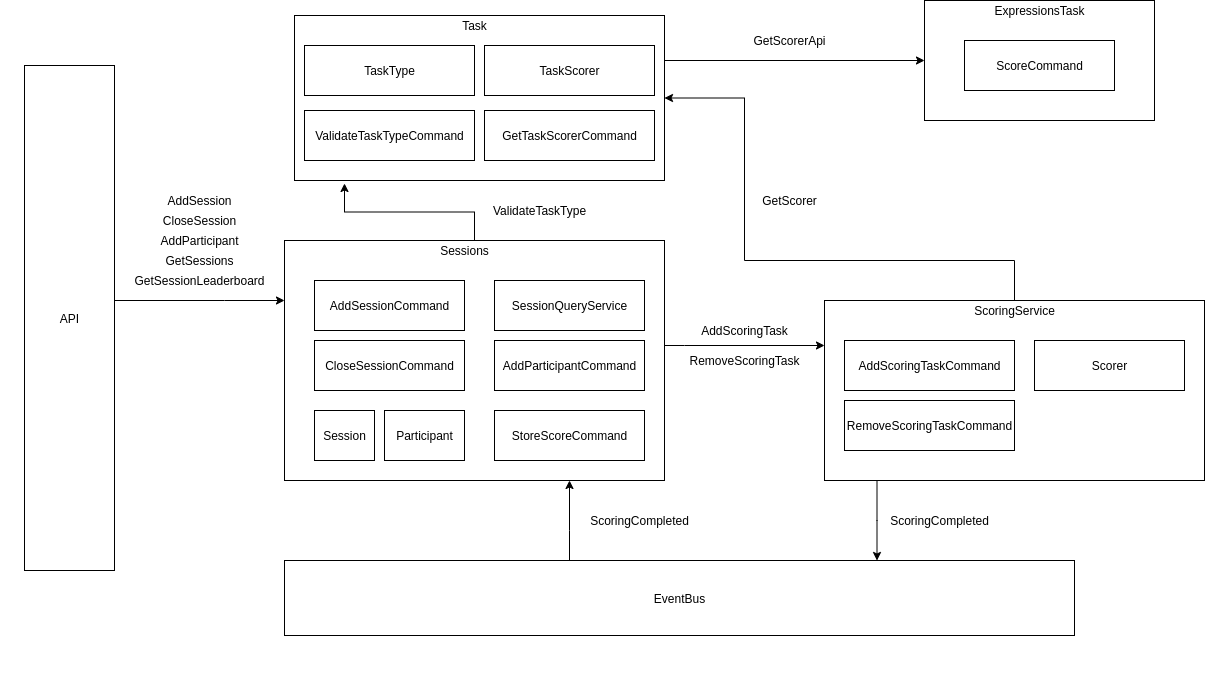
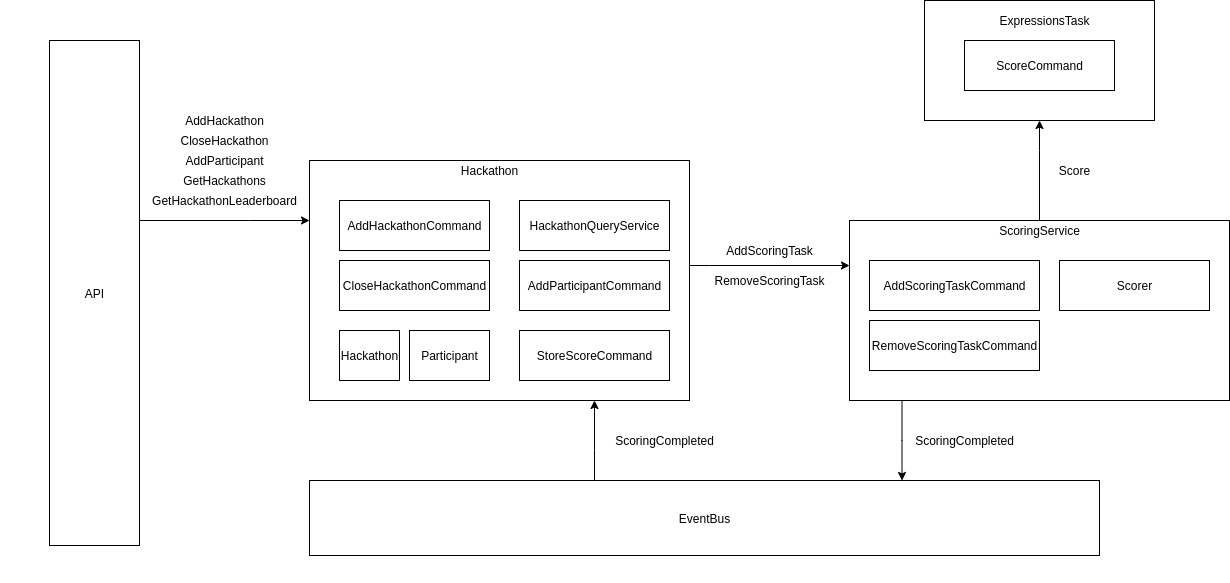
Удалил коды хакатонов

diff --git a/src/hackathonservice/pkg/hackathon/infrastructure/repository/hackathon.go b/src/hackathonservice/pkg/hackathon/infrastructure/repository/hackathon.go
@@ -15,10 +15,10 @@ type hackathonRepository struct {
 
 func (hr *hackathonRepository) Add(h model.Hackathon) error {
 	_, err := hr.tx.Exec(
-		"INSERT INTO `hackathon` (`hackathon_id`, `code`, `name`, `type`, `created_at`) VALUES (UUID_TO_BIN(?), ?, ?, ?, ?)"+
-			"ON DUPLICATE KEY UPDATE `code` = ?, `name` = ?, `type` = ?, `created_at` = ?, `closed_at` = ?",
-		h.ID, h.Code, h.Name, h.Type, h.CreatedAt,
-		h.Code, h.Name, h.Type, h.CreatedAt, h.ClosedAt)
+		"INSERT INTO `hackathon` (`hackathon_id`, `name`, `type`, `created_at`) VALUES (UUID_TO_BIN(?), ?, ?, ?)"+
+			"ON DUPLICATE KEY UPDATE `name` = ?, `type` = ?, `created_at` = ?, `closed_at` = ?",
+		h.ID, h.Name, h.Type, h.CreatedAt,
+		h.Name, h.Type, h.CreatedAt, h.ClosedAt)
 
 	if err != nil {
 		err = infrastructure.InternalError(err)
@@ -30,7 +30,7 @@ func (hr *hackathonRepository) Add(h model.Hackathon) error {
 func (hr *hackathonRepository) Get(id uuid.UUID) (*model.Hackathon, error) {
 	rows, err := hr.tx.Query(""+
 		getSelectHackathonSQL()+
-		"WHERE BIN_TO_UUID(h.hackathon_id) = ? ", id)
+		"WHERE h.hackathon_id = UUID_TO_BIN(?) ", id)
 
 	if err != nil {
 		return nil, infrastructure.InternalError(err)
@@ -44,10 +44,10 @@ func (hr *hackathonRepository) Get(id uuid.UUID) (*model.Hackathon, error) {
 	return nil, nil // not found
 }
 
-func (hr *hackathonRepository) GetByCode(code string) (*model.Hackathon, error) {
+func (hr *hackathonRepository) GetByName(name string) (*model.Hackathon, error) {
 	rows, err := hr.tx.Query(""+
 		getSelectHackathonSQL()+
-		"WHERE h.code = ? ", code)
+		"WHERE h.name = ? ", name)
 
 	if err != nil {
 		return nil, infrastructure.InternalError(err)
@@ -65,7 +65,6 @@ func getSelectHackathonSQL() string {
 	return "" +
 		"SELECT " +
 		"BIN_TO_UUID(h.hackathon_id) AS hackathon_id, " +
-		"h.code, " +
 		"h.name, " +
 		"h.type, " +
 		"h.created_at, " +
@@ -75,13 +74,12 @@ func getSelectHackathonSQL() string {
 
 func parseHackathon(r *sql.Rows) (*model.Hackathon, error) {
 	var hackathonId string
-	var code string
 	var name string
 	var t string
 	var createdAt time.Time
 	var closedAtNullable sql.NullTime
 
-	err := r.Scan(&hackathonId, &code, &name, &t, &createdAt, &closedAtNullable)
+	err := r.Scan(&hackathonId, &name, &t, &createdAt, &closedAtNullable)
 	if err != nil {
 		return nil, infrastructure.InternalError(err)
 	}
@@ -93,7 +91,6 @@ func parseHackathon(r *sql.Rows) (*model.Hackathon, error) {
 
 	return &model.Hackathon{
 		ID:        hackathonUid,
-		Code:      code,
 		Name:      name,
 		Type:      t,
 		CreatedAt: createdAt,

diff --git a/src/hackathonservice/pkg/hackathon/application/command/add_participant_test.go b/src/hackathonservice/pkg/hackathon/application/command/add_participant_test.go
@@ -13,28 +13,11 @@ func TestAddParticipantToNotExistentHackathon(t *testing.T) {
 	h := addParticipantCommandHandler{uow}
 	err := h.Handle(AddParticipantCommand{
 		uuid.New(),
-		"Test hackathon",
 		mockParticipant.Name,
 		mockParticipant.Endpoint,
 	})
 	if err != errors.HackathonNotExistsError {
 		t.Error("Add participant to not exists hackathon works")
-	}
-}
-
-func TestAddParticipantWithInvalidHackathonCode(t *testing.T) {
-	uow := &mockUnitOfWork{}
-	_ = uow.mockHackathonRepository.Add(mockHackathon)
-
-	h := addParticipantCommandHandler{uow}
-	err := h.Handle(AddParticipantCommand{
-		mockHackathon.ID,
-		"Test hackathon",
-		mockParticipant.Name,
-		mockParticipant.Endpoint,
-	})
-	if err != errors.InvalidHackathonCodeError {
-		t.Error("Add participant to hackathon with invalid code works")
 	}
 }
 
@@ -47,7 +30,6 @@ func TestAddParticipantToClosedHackathon(t *testing.T) {
 	h := addParticipantCommandHandler{uow}
 	err := h.Handle(AddParticipantCommand{
 		hackathon.ID,
-		hackathon.Code,
 		mockParticipant.Name,
 		mockParticipant.Endpoint,
 	})
@@ -63,7 +45,6 @@ func TestAddParticipantWithEmptyName(t *testing.T) {
 	h := addParticipantCommandHandler{uow}
 	err := h.Handle(AddParticipantCommand{
 		mockHackathon.ID,
-		mockHackathon.Code,
 		"",
 		mockParticipant.Endpoint,
 	})
@@ -79,7 +60,6 @@ func TestAddParticipantWithEmptyEndpoint(t *testing.T) {
 	h := addParticipantCommandHandler{uow}
 	err := h.Handle(AddParticipantCommand{
 		mockHackathon.ID,
-		mockHackathon.Code,
 		mockParticipant.Name,
 		"",
 	})
@@ -95,7 +75,6 @@ func TestAddDuplicateParticipant(t *testing.T) {
 	h := addParticipantCommandHandler{uow}
 	err := h.Handle(AddParticipantCommand{
 		mockHackathon.ID,
-		mockHackathon.Code,
 		mockParticipant.Name,
 		mockParticipant.Endpoint,
 	})
@@ -104,7 +83,6 @@ func TestAddDuplicateParticipant(t *testing.T) {
 	}
 	err = h.Handle(AddParticipantCommand{
 		mockHackathon.ID,
-		mockHackathon.Code,
 		mockParticipant.Name,
 		mockParticipant.Endpoint,
 	})

diff --git a/src/hackathonservice/pkg/hackathon/application/command/add_hackathon_test.go b/src/hackathonservice/pkg/hackathon/application/command/add_hackathon_test.go
@@ -22,22 +22,9 @@ func (m mockScoringAdapter) ValidateTaskType(taskType string) bool {
 	return taskType == mockValidTaskType
 }
 
-func TestAddHackathonWithEmptyCode(t *testing.T) {
-	h := addHackathonCommandHandler{&mockUnitOfWork{}, &mockScoringAdapter{}}
-	_, err := h.Handle(AddHackathonCommand{
-		"",
-		mockHackathon.Name,
-		mockValidTaskType,
-	})
-	if err != errors.InvalidHackathonCodeError {
-		t.Error("Add hackathon with empty code works")
-	}
-}
-
 func TestAddHackathonWithEmptyName(t *testing.T) {
 	h := addHackathonCommandHandler{&mockUnitOfWork{}, &mockScoringAdapter{}}
 	_, err := h.Handle(AddHackathonCommand{
-		mockHackathon.Code,
 		"",
 		mockValidTaskType,
 	})
@@ -49,7 +36,6 @@ func TestAddHackathonWithEmptyName(t *testing.T) {
 func TestAddHackathonWithInvalidTaskType(t *testing.T) {
 	h := addHackathonCommandHandler{&mockUnitOfWork{}, &mockScoringAdapter{}}
 	_, err := h.Handle(AddHackathonCommand{
-		mockHackathon.Code,
 		mockHackathon.Name,
 		mockInvalidTaskType,
 	})
@@ -61,7 +47,6 @@ func TestAddHackathonWithInvalidTaskType(t *testing.T) {
 func TestAddDuplicateHackathon(t *testing.T) {
 	h := addHackathonCommandHandler{&mockUnitOfWork{}, &mockScoringAdapter{}}
 	_, err := h.Handle(AddHackathonCommand{
-		mockHackathon.Code,
 		mockHackathon.Name,
 		mockValidTaskType,
 	})
@@ -69,7 +54,6 @@ func TestAddDuplicateHackathon(t *testing.T) {
 		t.Error("Add hackathon not works")
 	}
 	_, err = h.Handle(AddHackathonCommand{
-		mockHackathon.Code,
 		mockHackathon.Name,
 		mockValidTaskType,
 	})

diff --git a/src/hackathonservice/pkg/hackathon/api/errors/errors.go b/src/hackathonservice/pkg/hackathon/api/errors/errors.go
@@ -16,7 +16,6 @@ var HackathonNotExistsError = errors.New("hackathon: hackathon not exists")
 var HackathonAlreadyExistsError = errors.New("hackathon: hackathon already exists")
 var HackathonClosedError = errors.New("hackathon: hackathon closed")
 var HackathonAlreadyClosedError = errors.New("hackathon: hackathon already closed")
-var InvalidHackathonCodeError = errors.New("hackathon: invalid hackathon code")
 var InvalidHackathonNameError = errors.New("hackathon: invalid hackathon name")
 var InvalidHackathonTypeError = errors.New("hackathon: invalid hackathon type")
 var InternalError = commonErrors.InternalError
@@ -41,8 +40,6 @@ func WrapError(err error) error {
 		return HackathonClosedError
 	case appErrors.HackathonAlreadyClosedError:
 		return HackathonAlreadyClosedError
-	case appErrors.InvalidHackathonCodeError:
-		return InvalidHackathonCodeError
 	case appErrors.InvalidHackathonNameError:
 		return InvalidHackathonNameError
 	case appErrors.InvalidHackathonTypeError:

diff --git a/src/hackathonservice/pkg/hackathon/application/command/add_hackathon.go b/src/hackathonservice/pkg/hackathon/application/command/add_hackathon.go
@@ -9,7 +9,6 @@ import (
 )
 
 type AddHackathonCommand struct {
-	Code string
 	Name string
 	Type string
 }
@@ -32,9 +31,6 @@ func (h *addHackathonCommandHandler) Handle(c AddHackathonCommand) (*uuid.UUID, 
 	err := h.unitOfWork.Execute(func(rp RepositoryProvider) error {
 		repo := rp.HackathonRepository()
 
-		if c.Code == "" {
-			return errors.InvalidHackathonCodeError
-		}
 		if c.Name == "" {
 			return errors.InvalidHackathonNameError
 		}
@@ -43,7 +39,7 @@ func (h *addHackathonCommandHandler) Handle(c AddHackathonCommand) (*uuid.UUID, 
 			return errors.InvalidHackathonTypeError
 		}
 
-		s, err := repo.GetByCode(c.Code)
+		s, err := repo.GetByName(c.Name)
 		if err != nil {
 			return err
 		}
@@ -55,7 +51,6 @@ func (h *addHackathonCommandHandler) Handle(c AddHackathonCommand) (*uuid.UUID, 
 		hackathonId = &id
 		return repo.Add(model.Hackathon{
 			ID:        id,
-			Code:      c.Code,
 			Name:      c.Name,
 			Type:      c.Type,
 			CreatedAt: time.Now(),

diff --git a/src/hackathonservice/pkg/transport/command.go b/src/hackathonservice/pkg/transport/command.go
@@ -9,7 +9,6 @@ import (
 
 func (s *server) AddHackathon(_ context.Context, request *hackathon.AddHackathonRequest) (*hackathon.AddHackathonResponse, error) {
 	id, err := s.api.AddHackathon(input.AddHackathonInput{
-		Code: request.Code,
 		Name: request.Name,
 		Type: request.Type,
 	})
@@ -32,10 +31,9 @@ func (s *server) CloseHackathon(_ context.Context, request *hackathon.CloseHacka
 
 func (s *server) AddHackathonParticipant(_ context.Context, request *hackathon.AddHackathonParticipantRequest) (*empty.Empty, error) {
 	err := s.api.AddHackathonParticipant(input.AddHackathonParticipantInput{
-		HackathonID:   request.Id,
-		HackathonCode: request.HackathonCode,
-		Name:          request.Name,
-		Endpoint:      request.Endpoint,
+		HackathonID: request.Id,
+		Name:        request.Name,
+		Endpoint:    request.Endpoint,
 	})
 
 	if err != nil {

diff --git a/src/hackathonservice/pkg/hackathon/api/input/participant.go b/src/hackathonservice/pkg/hackathon/api/input/participant.go
@@ -7,10 +7,9 @@ import (
 )
 
 type AddHackathonParticipantInput struct {
-	HackathonID   string
-	HackathonCode string
-	Name          string
-	Endpoint      string
+	HackathonID string
+	Name        string
+	Endpoint    string
 }
 
 func (i AddHackathonParticipantInput) Command() (*command.AddParticipantCommand, error) {
@@ -20,9 +19,8 @@ func (i AddHackathonParticipantInput) Command() (*command.AddParticipantCommand,
 	}
 
 	return &command.AddParticipantCommand{
-		HackathonID:   hackathonID,
-		HackathonCode: i.HackathonCode,
-		Name:          i.Name,
-		Endpoint:      i.Endpoint,
+		HackathonID: hackathonID,
+		Name:        i.Name,
+		Endpoint:    i.Endpoint,
 	}, nil
 }

diff --git a/src/hackathonservice/pkg/hackathon/application/command/unit_of_work_test.go b/src/hackathonservice/pkg/hackathon/application/command/unit_of_work_test.go
@@ -8,7 +8,6 @@ import (
 
 var mockHackathon = model.Hackathon{
 	ID:        uuid.New(),
-	Code:      "MockHackathon",
 	Name:      "MockHackathon",
 	Type:      "test_type",
 	CreatedAt: time.Now(),
@@ -68,13 +67,13 @@ func (m *mockHackathonRepository) Get(id uuid.UUID) (*model.Hackathon, error) {
 	return &s, nil
 }
 
-func (m *mockHackathonRepository) GetByCode(code string) (*model.Hackathon, error) {
+func (m *mockHackathonRepository) GetByName(name string) (*model.Hackathon, error) {
 	if m.hackathons == nil {
 		return nil, nil
 	}
 
 	for _, h := range m.hackathons {
-		if h.Code == code {
+		if h.Name == name {
 			return &h, nil
 		}
 	}

diff --git a/src/hackathonservice/pkg/hackathon/application/command/add_participant.go b/src/hackathonservice/pkg/hackathon/application/command/add_participant.go
@@ -8,10 +8,9 @@ import (
 )
 
 type AddParticipantCommand struct {
-	HackathonID   uuid.UUID
-	HackathonCode string
-	Name          string
-	Endpoint      string
+	HackathonID uuid.UUID
+	Name        string
+	Endpoint    string
 }
 
 type addParticipantCommandHandler struct {
@@ -38,10 +37,6 @@ func (h *addParticipantCommandHandler) Handle(command AddParticipantCommand) err
 
 		if hackathon == nil {
 			return errors.HackathonNotExistsError
-		}
-
-		if hackathon.Code != command.HackathonCode {
-			return errors.InvalidHackathonCodeError
 		}
 
 		if hackathon.IsClosed() {

diff --git a/src/hackathonservice/pkg/hackathon/application/errors/hackathon.go b/src/hackathonservice/pkg/hackathon/application/errors/hackathon.go
@@ -6,6 +6,5 @@ var HackathonNotExistsError = errors.New("hackathon not exists")
 var HackathonAlreadyExistsError = errors.New("hackathon already exists")
 var HackathonClosedError = errors.New("hackathon closed")
 var HackathonAlreadyClosedError = errors.New("hackathon already closed")
-var InvalidHackathonCodeError = errors.New("invalid hackathon code")
 var InvalidHackathonNameError = errors.New("invalid hackathon name")
 var InvalidHackathonTypeError = errors.New("invalid hackathon type")

diff --git a/src/hackathonservice/pkg/hackathon/model/hackathon.go b/src/hackathonservice/pkg/hackathon/model/hackathon.go
@@ -5,11 +5,8 @@ import (
 	"time"
 )
 
-const HackathonTypeArithmeticExpression = 1
-
 type Hackathon struct {
 	ID        uuid.UUID
-	Code      string
 	Name      string
 	Type      string
 	CreatedAt time.Time
@@ -19,7 +16,7 @@ type Hackathon struct {
 type HackathonRepository interface {
 	Add(s Hackathon) error
 	Get(id uuid.UUID) (*Hackathon, error)
-	GetByCode(code string) (*Hackathon, error)
+	GetByName(name string) (*Hackathon, error)
 }
 
 func (s *Hackathon) Close() {

diff --git a/src/hackathonservice/pkg/hackathon/api/input/hackathon.go b/src/hackathonservice/pkg/hackathon/api/input/hackathon.go
@@ -7,14 +7,12 @@ import (
 )
 
 type AddHackathonInput struct {
-	Code string
 	Name string
 	Type string
 }
 
 func (i AddHackathonInput) Command() command.AddHackathonCommand {
 	return command.AddHackathonCommand{
-		Code: i.Code,
 		Name: i.Name,
 		Type: i.Type,
 	}
